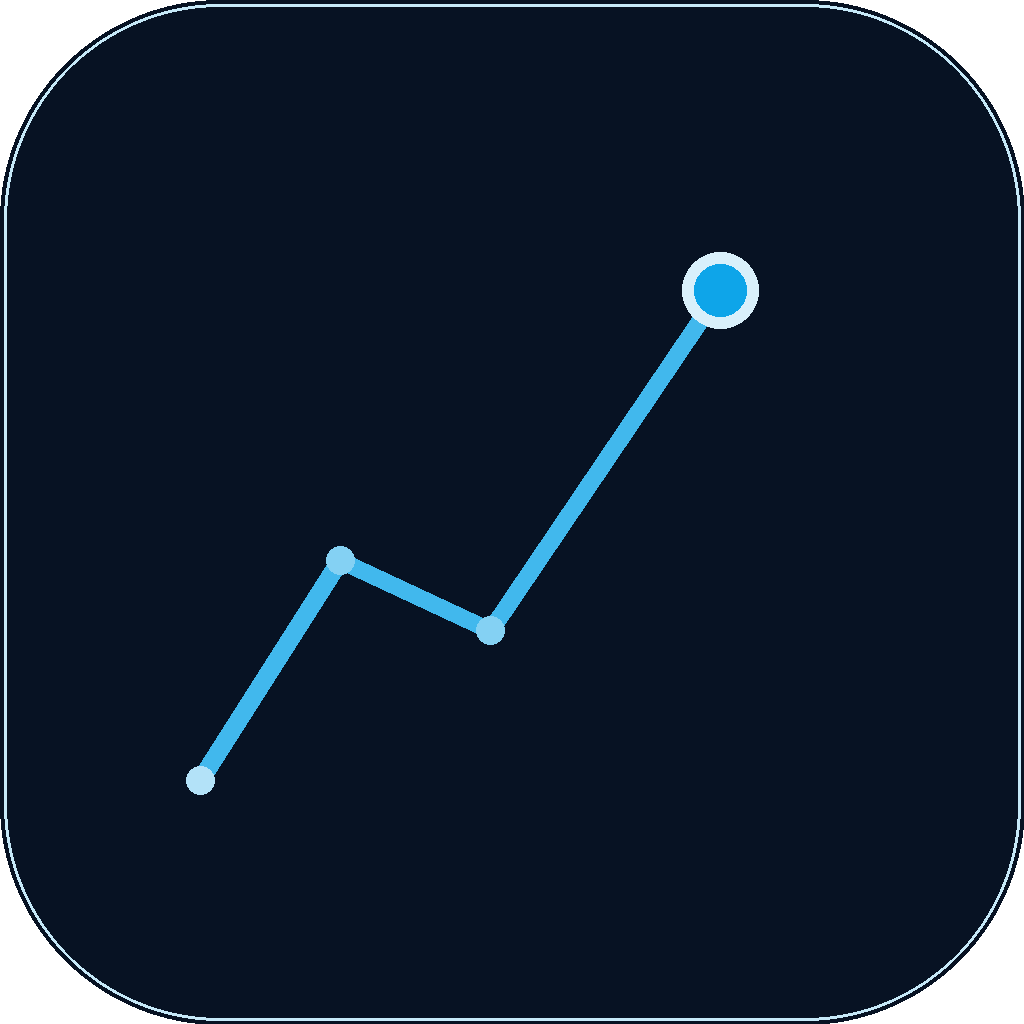
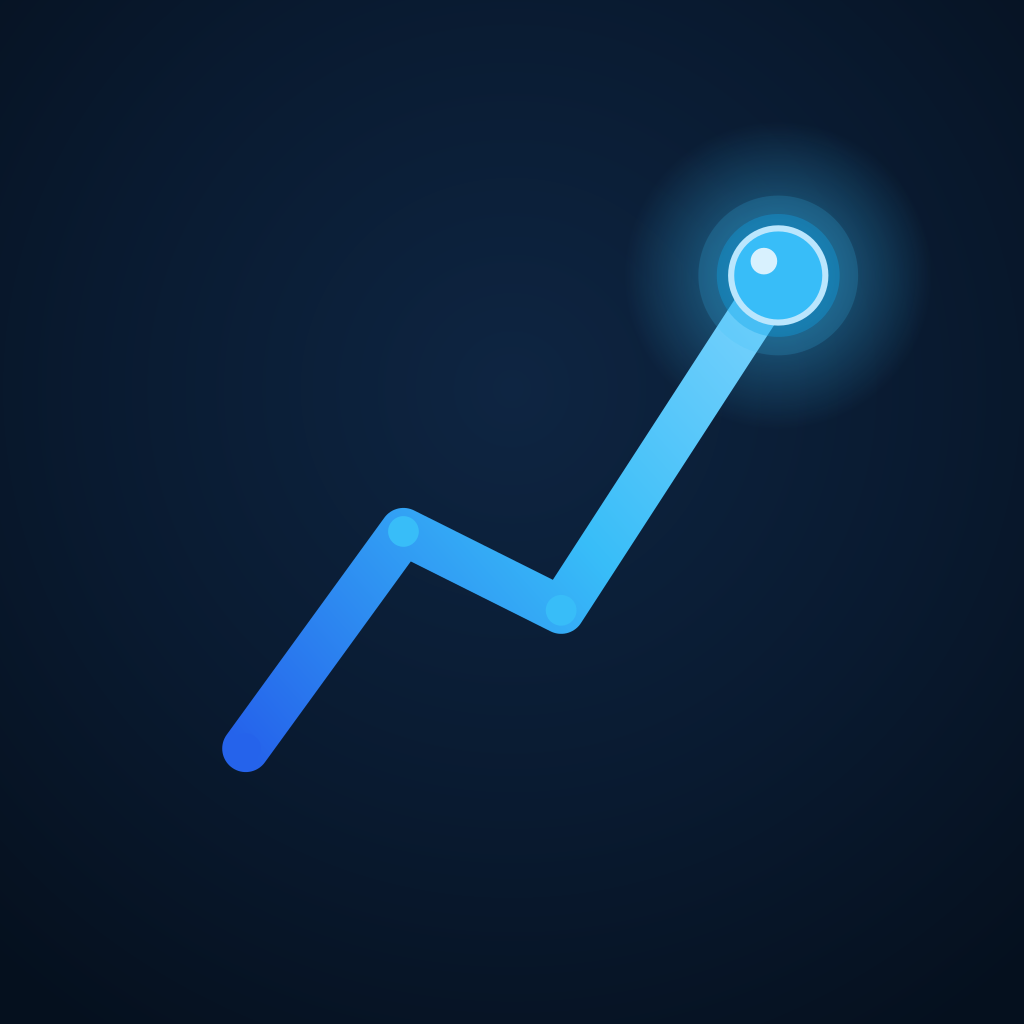
polish: channel-aware buyer chat + verify pass

diff --git a/app/screens/buyer/ChatScreen.tsx b/app/screens/buyer/ChatScreen.tsx
@@ -30,6 +30,7 @@ export default function ChatScreen({ route }: any) {
         .from('messages')
         .select('*')
         .eq('inquiry_id', inquiryId)
+        .eq('channel', 'buyer')
         .order('created_at', { ascending: true });
       if (active) {
         setMessages(data || []);
@@ -45,6 +46,7 @@ export default function ChatScreen({ route }: any) {
         { event: 'INSERT', schema: 'public', table: 'messages', filter: `inquiry_id=eq.${inquiryId}` },
         (payload) => {
           const msg = payload.new as Message;
+          if ((msg as any).channel && (msg as any).channel !== 'buyer') return;
           setMessages(prev => (prev.some(m => m.id === msg.id) ? prev : [...prev, msg]));
         }
       )
@@ -71,7 +73,7 @@ export default function ChatScreen({ route }: any) {
 
     const { data, error } = await supabase
       .from('messages')
-      .insert({ inquiry_id: inquiryId, sender_id: session.user.id, sender_role: 'buyer', body })
+      .insert({ inquiry_id: inquiryId, sender_id: session.user.id, sender_role: 'buyer', channel: 'buyer', body })
       .select()
       .single();
 